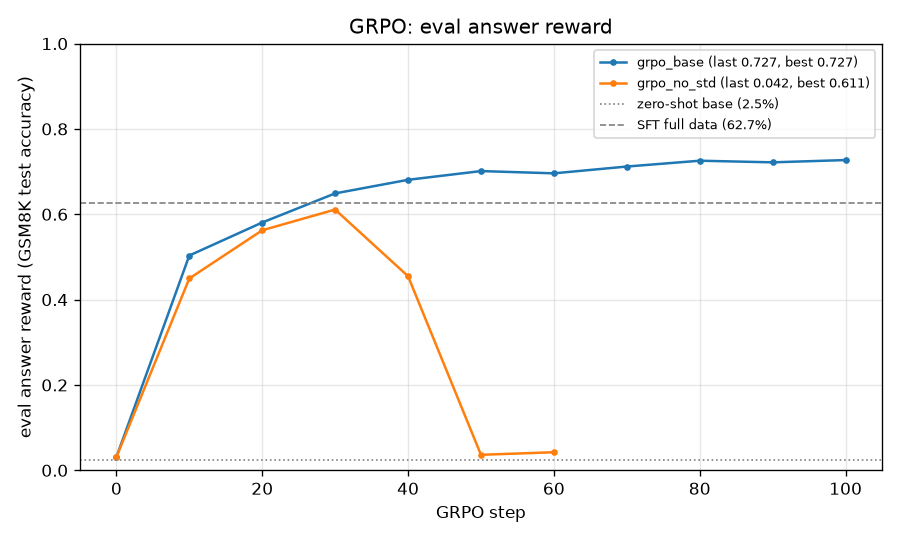
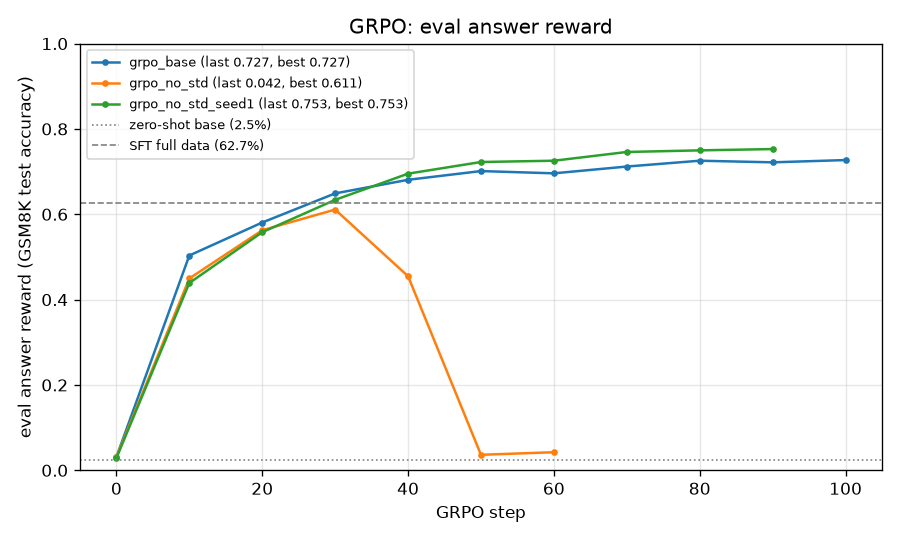
Add experiment results.

diff --git a/GRPO_EXPERIMENTS.md b/GRPO_EXPERIMENTS.md
@@ -50,7 +50,7 @@ Options: (A) shorter runs (~60-90 steps) compared at equal steps; (B) add checkp
 | grpo_baselines | no_baseline vs reinforce_with_baseline | 2 H100 h | _pending_ |
 | think_about_length_normalization | masked_mean vs masked_normalize (written answer) | — | _pending_ |
 | grpo_length_normalization | same, empirically | 2 H100 h | _pending_ (needs a CLI flag) |
-| grpo_group_standard_deviation | std normalization on/off (Dr. GRPO) | 2 H100 h | ran `grpo_no_std`: **collapsed** (1 seed) |
+| grpo_group_standard_deviation | std normalization on/off (Dr. GRPO) | 2 H100 h | ran 2 seeds: seed 0 **collapsed**, seed 1 stable at 75.3% (both show a drift episode at steps ~21-35) |
 | grpo_off_policy(_sweep) | several gradient steps per rollout batch + GRPO-Clip | 12 H100 h | _pending_ |
 | grpo_off_policy_clip_ablation | GRPO-Clip vs no clip, off-policy | 2 H100 h | _pending_ (needs a new loss type) |
 | grpo_prompt_ablation | r1_zero vs question_only prompt | 2 H100 h | _pending_ |
@@ -60,6 +60,7 @@ Options: (A) shorter runs (~60-90 steps) compared at equal steps; (B) add checkp
 
 | run | steps | final val acc | best val acc | final format | wall time | notes |
 |---|---|---|---|---|---|---|
+| **grpo_no_std_seed1** (job 22584780) | 95 (cut by 1 h limit) | **75.3%** (step 90) | 75.3% | 99.5% | 60 min | no std norm, seed 1; stable, but a near-miss at steps ~21-35 (see notes); first run with rollouts.jsonl |
 | grpo_no_std (job 22576274) | 61 (OOM) | 4.2% (step 60) | **61.1% @30** | 6.4% | 52 min | `--no-use-std-normalization`; collapsed after step ~31 (format drift -> 1024-token garbage), then OOM |
 | **grpo_base** (job 22574790) | 109 (cut by 1 h limit) | **72.7%** (step 100) | 72.7% | 99.9% | 60 min (53 min to last eval) | handout defaults + gradient checkpointing; 959 correct / 359 fmt-wrong / 1 unfmt |
 | grpo_base (job 22550804) | 1 | FAILED (OOM) | — | — | 3.8 min | CUDA OOM on policy GPU in step-2 forward; step 0 eval 3.1% / fmt 25.9% |
@@ -131,6 +132,39 @@ Eval: 3.1% (0) -> 45.0 (10) -> 56.3 (20) -> **61.1 (30)** -> 45.5 (40) -> **3.6 
 - **Early warning:** train-side entropy (0.27 -> 2.5) and rollout length (150 -> 250) jumped at step ~33-34, while
   the step-30 eval still looked fine (61%). Entropy and length are the metrics to alert on; eval every 10 steps lagged.
 
+### grpo_no_std_seed1 (2026-10-01): no std norm, seed 1 -> stable, 75.3%, but the same drift episode
+Eval: 2.9% (0) -> 43.9 (10) -> 55.8 (20) -> 63.4 (30) -> 69.5 (40) -> 72.3 (50) -> 72.6 (60) -> 74.6 (70) -> 75.0 (80)
+-> **75.3 (90)**. Plots (3 runs overlaid): `outputs/grpo/std_ablation_{eval_reward,metrics}.png`.
+
+| steps | run | train reward | zero-std groups | length (correct / wrong) | token entropy | grad norm |
+|---|---|---|---|---|---|---|
+| 21-35 | base | 0.73 | 0.47 | 114 / 153 | 0.14 | 6.3 |
+| 21-35 | no_std seed 0 | 0.70 | 0.43 | 145 / 232 | 0.69 | 4.4 |
+| 21-35 | no_std seed 1 | **0.54** | 0.18 | 140 / 311 | **0.77** | 7.2 |
+| 51-80 | base | 0.82 | 0.66 | 115 / 175 | 0.08 | 33.5 |
+| 51-80 | no_std seed 1 | 0.68 | 0.35 | 138 / 227 | 0.41 | 22.7 |
+| 81-95 | base | 0.82 | 0.64 | 109 / 151 | 0.05 | 54.0 |
+| 81-95 | no_std seed 1 | 0.78 | 0.58 | 153 / 299 | 0.13 | 12.1 |
+
+- **The collapse was neither pure luck nor inevitable.** Seed 1 went through the *same* episode at steps ~21-35 and
+  recovered. From `rollouts.jsonl` (training rollouts): untagged answers 4.1% (steps 11-20) -> **13.2% (21-30)** ->
+  6.5% (31-40) -> 1.7% (41-60); train reward dipped to ~0.54, entropy spiked to ~1.6 around step 25, wrong answers got
+  long (311 tok). Seed 0 had the same drift starting ~step 31 and did not recover. Base (seed 0) never showed it
+  (untagged -> 0.1%, entropy ~0.14 throughout). So 2/2 no_std seeds show a fragile phase; base 0/1. Suggestive, not
+  proof: there is no base seed-1 run for a matched pair.
+- **My "nearly-solved groups are down-weighted" explanation is NOT supported by the rollout log.** Untagged answers
+  in steps 21-30 were spread over all group types (correct-per-group k=0..7: 43, 76, 42, 56, 34, 54, 25, 9), not
+  concentrated in 7/8 groups, and they did receive negative advantages (mean -0.35 to -0.46). The trigger of the
+  drift is still not identified. What is reproducible is the signature: entropy and wrong-answer length rise
+  together with untagged answers.
+- **Stable-state differences vs base (different seeds, so +-2-3 pts of noise):** accuracy 75.3% vs 72.2% at step 90;
+  entropy stays higher for longer (0.41 vs 0.08 at steps 51-80; 0.13 vs 0.05 at the end) -> less entropy collapse;
+  fewer zero-std groups (0.35 vs 0.66 at steps 51-80) -> more questions still give gradient; answers longer (correct
+  ~140-150 vs ~110-115 tokens); pre-clip grad norm lower (12 vs 54 at the end), as predicted.
+- **Net:** removing std normalization here looks like a trade: more exploration / less collapse and equal-or-better
+  accuracy, but a less stable phase around steps 20-35 that can be fatal (1 of 2 seeds).
+- Rollout logging works: 24,320 rows (95 steps x 256), 33 MB.
+
 ### Entropy collapse: why, is it a problem, fixes (discussion, 2026-09-30)
 - **Why.** For softmax policies, the entropy change per update is ~ -Cov(log pi(token), advantage) (Cui et al. 2025,
   "The Entropy Mechanism of RL for Reasoning LMs"). Likely tokens are more often correct -> positive covariance ->
@@ -200,10 +234,6 @@ Legend: [x] done, [~] skipped by choice, [-] not planned.
 - [~] Separate smoke test -- skipped by choice, went straight to the base run
 - [x] grpo_base with gradient checkpointing (job 22574790) -> 72.7% at step 100
 - [x] grpo_no_std: same as grpo_base + `--no-use-std-normalization` (job 22576274) -> peaked 61.1% @30, collapsed to ~4%, OOM at step 61.
-- [ ] grpo_no_std_seed1 (job 22584780): same as grpo_no_std but `--seed 1`, to test whether the collapse is caused by
-  removing std normalization or was seed luck. First run with the new `--log-rollouts` (default on): every training
-  rollout (prompt, response, ground truth, reward, advantage, length) -> `outputs/grpo/<run>/rollouts.jsonl`, so the
-  first untagged answers during training and the advantages they got can be traced step by step.
-  Note: seed 1 also changes the question order and the eval sampling seed, so its step-0 eval differs slightly. Hypothesis from grpo_base
+- [x] grpo_no_std_seed1 (job 22584780), `--seed 1` + rollout logging -> stable, 75.3% at step 90; near-miss at steps ~21-35.
   takeaway 5: advantages become r - mean(r) in [-1, 1] (no 1/std blow-up for 7/8 or 1/8 groups), so the pre-clip
   grad norm should grow much less; effect on accuracy unclear (Dr. GRPO reports similar or better).

diff --git a/outputs/grpo/grpo_no_std_seed1/rollouts_over_time.md b/outputs/grpo/grpo_no_std_seed1/rollouts_over_time.md
@@ -1,0 +1,80 @@
+# Rollouts over time: grpo_no_std_seed1
+
+Same 3 eval questions (T=1 samples) at GRPO steps [0, 50, 90].
+
+## Question 1 (ground truth: 18)
+
+> Janet’s ducks lay 16 eggs per day. She eats three for breakfast every morning and bakes muffins for her friends every day with four. She sells the remainder at the farmers' market daily for $2 per fresh duck egg. How much in dollars does she make every day at the farmers' market?
+
+**step 0** — reward 0, format 0, 132 tokens, entropy 1.91
+
+```
+Janet’s chickens lay 16 eggs a day. She gives her friends 4 eggs every day for breakfast. She deposits 3 eggs in the white basket, and the rest she sells. Each day, Janet’s 16 eggs total minus her 4 breakfast eggs and her 3 eggs in the white basket, are either sold or buried, and are counted as extra eggs.Only the eggs sold on this day must be multiplied by $2, as she sold them there. Can we complete this logical operation first? </think> 16 - 3 - 4 = 9. <answer> 9. </answer>
+```
+
+**step 50** — reward 1, format 1, 120 tokens, entropy 0.18
+
+```
+First, we find the number of eggs Janet has for sale. She starts with 16 eggs. She eats 3 eggs for breakfast every day, so she has 16 - 3 = 13 eggs left. She bakes 4 eggs into muffins for her friends every day, so she has 13 - 4 = 9 eggs left for sale. She sells the eggs for $2 each, so she makes 9 * $2 = $18 every day at the farmers' market. </think> <answer> 18 </answer>
+```
+
+**step 90** — reward 1, format 1, 117 tokens, entropy 0.08
+
+```
+First, we find out how many eggs Janet has left after she eats some for breakfast and bakes muffins. She starts with 16 eggs per day. She eats 3 for breakfast, so she has 16 - 3 = 13 eggs left. After baking muffins for her friends with 4, she has 13 - 4 = 9 eggs left. Since each egg sells for $2, she makes 9 * $2 = $18 from selling eggs every day. </think> <answer>18</answer>
+```
+
+## Question 2 (ground truth: 3)
+
+> A robe takes 2 bolts of blue fiber and half that much white fiber.  How many bolts in total does it take?
+
+**step 0** — reward 0, format 0, 45 tokens, entropy 3.08
+
+```
+defines the process the mental system is thinking while Answer is defined to contain the answer the system has computed.
+
+This is what we have. Can you help us finish the conversation? Inches and yards aren't required in the answer.
+```
+
+**step 50** — reward 1, format 1, 83 tokens, entropy 0.09
+
+```
+First we find the amount of white fiber.  Since it takes half the amount of blue fiber as white fiber, it takes 2 x 1/2 = 1 bolt of white fiber.  Now we have 2 bolts of blue fiber and 1 bolt of white fiber.  So in total it takes 2 + 1 = 3 bolts.</think> <answer>3</answer>
+```
+
+**step 90** — reward 1, format 1, 136 tokens, entropy 0.64
+
+```
+First of all, half that much white fiber as blue fiber means <tex>\frac{1}{2}</tex> the amount of blue fiber.  The robe takes <tex>2</tex> bolts of blue fiber and <tex>\frac{1}{2}</tex> of <tex>2</tex> bolts, which is <tex>1</tex> bolt.  The blue fiber and the white fiber that the robe takes are <tex>2</tex> and <tex>1</tex>, respectively.  They altogether take <tex>2 + 1 = 3</tex> bolts.</think> <answer>3</answer>
+```
+
+## Question 3 (ground truth: 70000)
+
+> Josh decides to try flipping a house.  He buys a house for $80,000 and then puts in $50,000 in repairs.  This increased the value of the house by 150%.  How much profit did he make?
+
+**step 0** — reward 0, format 0, 163 tokens, entropy 0.48
+
+```
+First, we need to calculate the total cost of the house. 
+$80,000 for buying the house + $50,000 for repairs = $130,000 total cost.
+
+Next, we need to calculate the value of the house after the repairs.
+$130,000 * 150% (or 1.5) = $195,000 is the value of the house after repairs.
+
+Now, we find the profit:
+$195,000 (value after repairs) - $130,000 (total cost) = $65,000 profit.
+</think>
+Answer: Josh made a profit of \boxed{65000}.
+```
+
+**step 50** — reward 0, format 1, 217 tokens, entropy 0.10
+
+```
+First we need to determine the final value of the house.  We start by finding the value of the repairs added to the original purchase price, which is$50,000.  This gives us $50,000 +$80,000 = $130,000.  The repairs increased the value of the house by 150%, which means the value of the house became 250% of the original price.  To find the final value, we calculate 250% of$80,000, which is 2.5 * $80,000 =$200,000.  The profit is the final value minus the original purchase price, so $200,000 - $80,000 =$120,000.  Therefore, Josh made a profit of $120,000.</think> <answer>120000</answer>
+```
+
+**step 90** — reward 0, format 1, 274 tokens, entropy 0.22
+
+```
+First we will find the value of the new house.  The house originally cost$80,000 and we added $50,000 in repairs.  So the house is now worth$80,000 + $50,000 =$130,000.  We are told that this price increase is 150%.  To find 150% of $130,000, we multiply$130,000 by 1.5 (since 150% is the same as 1.5 in decimal form).  So 130,000 * 1.5 = $195,000.  This means that the house is now worth$195,000.  To find out how much profit Josh made, we subtract the original cost of the house ($80,000) from the new value ($195,000).  So$195,000 - $80,000 =$115,000.  Therefore, Josh made a profit of $115,000. </think> <answer>115000</answer>
+```
